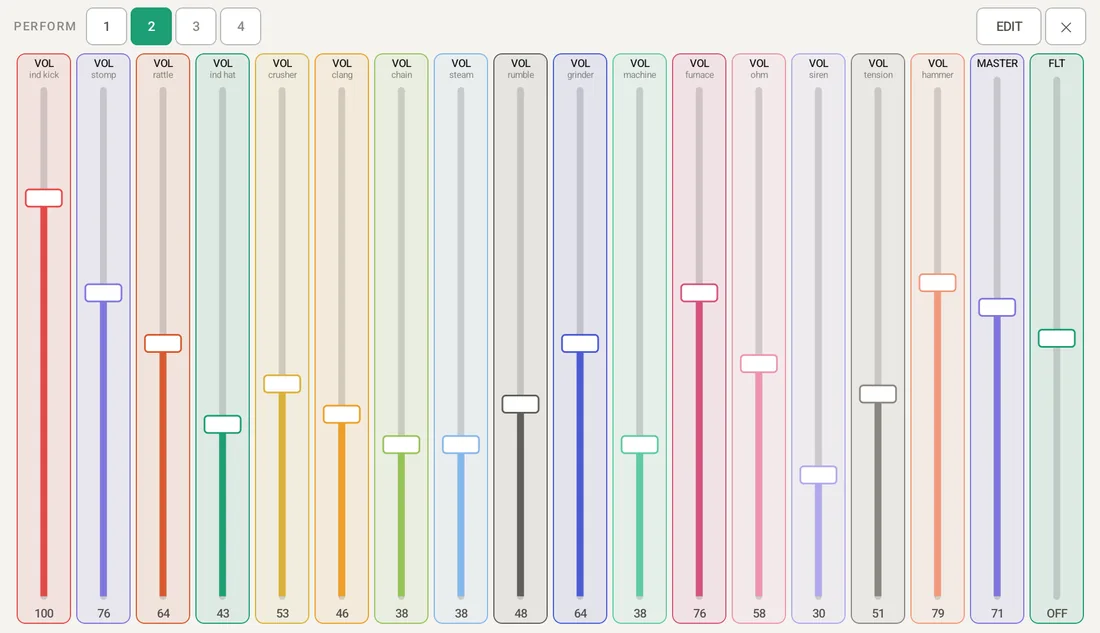
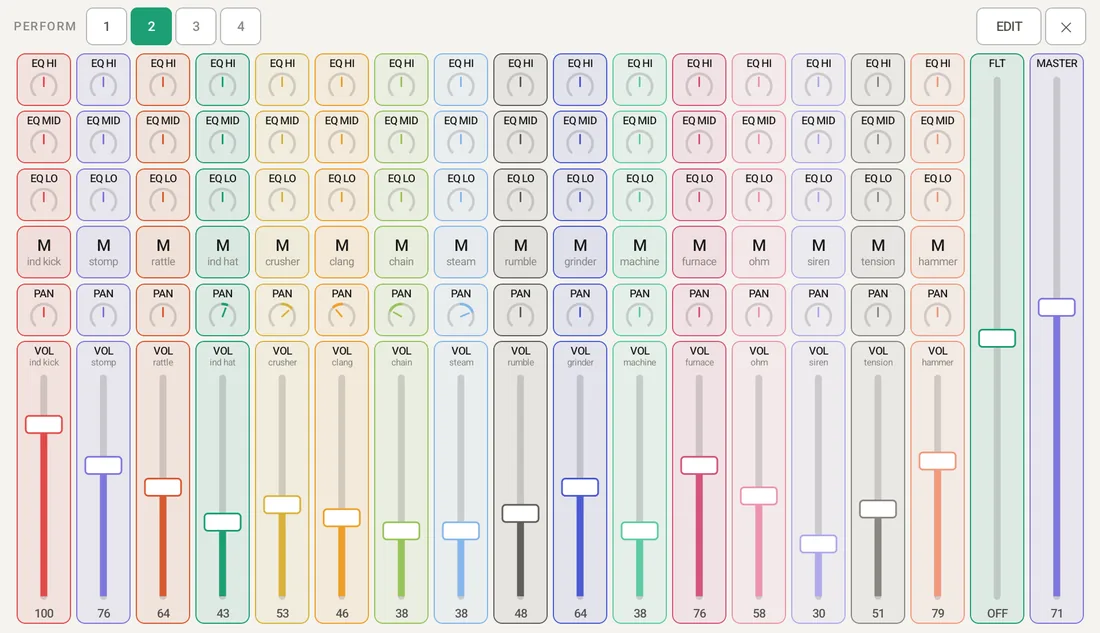
DBR-1 説明書: 2 ページ目のミニミキサー・値の吹き出し・ダブルタップ
Claude-Session: https://claude.ai/code/session_014nrG8LAda3EPv8TQp5hzGz

Changed region(s): [[0.0, 0.06, 0.9891, 0.9905]]

diff --git a/dbr1/manual/ja.html b/dbr1/manual/ja.html
@@ -374,11 +374,11 @@
 </ul>
 <h3 id="performscreen">パフォーマンス画面（PERF）</h3>
 <figure><img src="img/perform_screen.webp" alt="パフォーマンス画面"><figcaption>1 ページ目（最初の配置）</figcaption></figure>
-<figure><img src="img/perform_mixer.webp" alt="パフォーマンス画面の 2 ページ目"><figcaption>2 ページ目（最初の配置）: 16 トラックの音量 + MASTER + FLT</figcaption></figure>
+<figure><img src="img/perform_mixer.webp" alt="パフォーマンス画面の 2 ページ目"><figcaption>2 ページ目（最初の配置）: 16 トラックのミニミキサー</figcaption></figure>
 <p>シーケンスを鳴らしながら演奏するための画面です。18×10 のマス目に、ボタン・フェーダー・ノブを好きな大きさで並べて、自分用の演奏の画面を作れます。タブレットはパッドの上の <span class="key">PERF</span>、スマートフォンは左のタブの <b>PERF</b>（PADS の下）で開きます。タブレットでは右上の <span class="key">✕</span> で元の画面に戻ります。</p>
 <ul>
-  <li>ページは 1〜4 です。配置は端末に保存され、どのプロジェクトを開いても同じです（タブレットとスマートフォンの配置は別々）。最初は 1 ページ目の左にボタン 16 個（ROLL・MUTE・シーン・パターン・REV・FX）、真ん中に FLT と MASTER（音量）のフェーダー、右にリバーブ・ディレイのノブ 4 つが並んでいます。2 ページ目は 16 トラックの音量・MASTER・FLT のフェーダーを 1 列ずつ並べたミキサーです。EDIT の ⋯ の「Default layout on this page」でいつでもそのページの最初の配置に戻せます（3・4 ページ目では 1 ページ目の配置）。<br><small>※ 以前の版（8×4 のマス目）で作った配置は、そのまま 18×10 に引き伸ばして表示します。</small></li>
-  <li>1 マスはボタンには小さめですが、フェーダーにはちょうどよい太さです。ボタンは 2×2 マスくらいが押しやすい大きさです。スマートフォンで 1 マスにしたノブは名前・値を出さずノブだけ、ボタンは小さな文字で表示します。</li>
+  <li>ページは 1〜4 です。配置は端末に保存され、どのプロジェクトを開いても同じです（タブレットとスマートフォンの配置は別々）。最初は 1 ページ目の左にボタン 16 個（ROLL・MUTE・シーン・パターン・REV・FX）、真ん中に FLT と MASTER（音量）のフェーダー、右にリバーブ・ディレイのノブ 4 つが並んでいます。2 ページ目は 16 トラックのミニミキサーです（トラックごとに縦 1 列で、上から EQ HI / MID / LO のノブ・ミュート（M）・PAN のノブ・音量のフェーダー。右端に FLT と MASTER）。EDIT の ⋯ の「Default layout on this page」でいつでもそのページの最初の配置に戻せます（3・4 ページ目では 1 ページ目の配置）。<br><small>※ 以前の版（8×4 のマス目）で作った配置は、そのまま 18×10 に引き伸ばして表示します。</small></li>
+  <li>1 マスはボタンには小さめですが、フェーダーにはちょうどよい太さです。ボタンは 2×2 マスくらいが押しやすい大きさです。小さいノブは文字を減らしてノブを大きく描きます。<b>フェーダー・ノブを触っている間は、上に名前と値が大きく出ます</b>（指で隠れても読めます）。<b>ダブルタップ</b>で 0 に戻ります（パン・EQ・ピッチなど真ん中のあるもの、FLT・USER は真ん中）。スマートフォンで 1 マスにしたノブは名前・値を出さずノブだけ、ボタンは小さな文字で表示します。</li>
   <li>部品はそれぞれ別の指で同時に触れます（ROLL を押しながらフェーダーを動かす、など）。</li>
   <li>全体フィルターの縦フェーダーはこの画面には出ません。FLT を部品として好きな場所に置けます。</li>
 </ul>

diff --git a/dbr1/manual/en.html b/dbr1/manual/en.html
@@ -374,11 +374,11 @@
 </ul>
 <h3 id="performscreen">Performance screen (PERF)</h3>
 <figure><img src="img/perform_screen.webp" alt="Performance screen"><figcaption>Page 1 (first layout)</figcaption></figure>
-<figure><img src="img/perform_mixer.webp" alt="Performance screen page 2"><figcaption>Page 2 (first layout): 16 track volumes + MASTER + FLT</figcaption></figure>
+<figure><img src="img/perform_mixer.webp" alt="Performance screen page 2"><figcaption>Page 2 (first layout): a 16-track mini mixer</figcaption></figure>
 <p>A screen for playing live while the sequence runs. Place buttons, faders and knobs of any size on an 18×10 grid to build your own performance surface. On tablets, open it with <span class="key">PERF</span> above the pads; on phones, with the <b>PERF</b> tab on the left (below PADS). On tablets, <span class="key">✕</span> at the top right goes back.</p>
 <ul>
-  <li>There are 4 pages. The layout is saved on the device and stays the same whichever project you open (tablet and phone layouts are separate). Page 1 starts with 16 buttons on the left (ROLL, MUTE, scene, pattern, REV and FX), the FLT and MASTER (volume) faders in the middle and four reverb / delay knobs on the right. Page 2 is a mixer: one fader each for the 16 track volumes, MASTER and FLT. "Default layout on this page" in EDIT's ⋯ menu brings back that page's first layout at any time (page 1's layout on pages 3 and 4).<br><small>Layouts made with earlier versions (8×4 grid) are stretched to fit 18×10.</small></li>
-  <li>A single cell is small for a button but just right for a fader; buttons are easiest to hit at about 2×2 cells. On phones, a one-cell knob shows just the knob (no name or value) and a one-cell button uses small text.</li>
+  <li>There are 4 pages. The layout is saved on the device and stays the same whichever project you open (tablet and phone layouts are separate). Page 1 starts with 16 buttons on the left (ROLL, MUTE, scene, pattern, REV and FX), the FLT and MASTER (volume) faders in the middle and four reverb / delay knobs on the right. Page 2 is a 16-track mini mixer (one column per track: EQ HI / MID / LO knobs, mute (M), a PAN knob and a volume fader; FLT and MASTER on the right). "Default layout on this page" in EDIT's ⋯ menu brings back that page's first layout at any time (page 1's layout on pages 3 and 4).<br><small>Layouts made with earlier versions (8×4 grid) are stretched to fit 18×10.</small></li>
+  <li>A single cell is small for a button but just right for a fader; buttons are easiest to hit at about 2×2 cells. Small knobs drop text to leave room for the knob. <b>While you touch a fader or knob, its name and value appear above it</b> (readable even under your finger). <b>Double-tap</b> to reset it to 0 (to the center for pan, EQ, pitch and other centered values, FLT and USER). On phones, a one-cell knob shows just the knob (no name or value) and a one-cell button uses small text.</li>
   <li>Each part can be touched with a different finger at the same time (hold ROLL while moving a fader, for example).</li>
   <li>The master filter fader is not shown on this screen; place FLT as a part wherever you like.</li>
 </ul>
